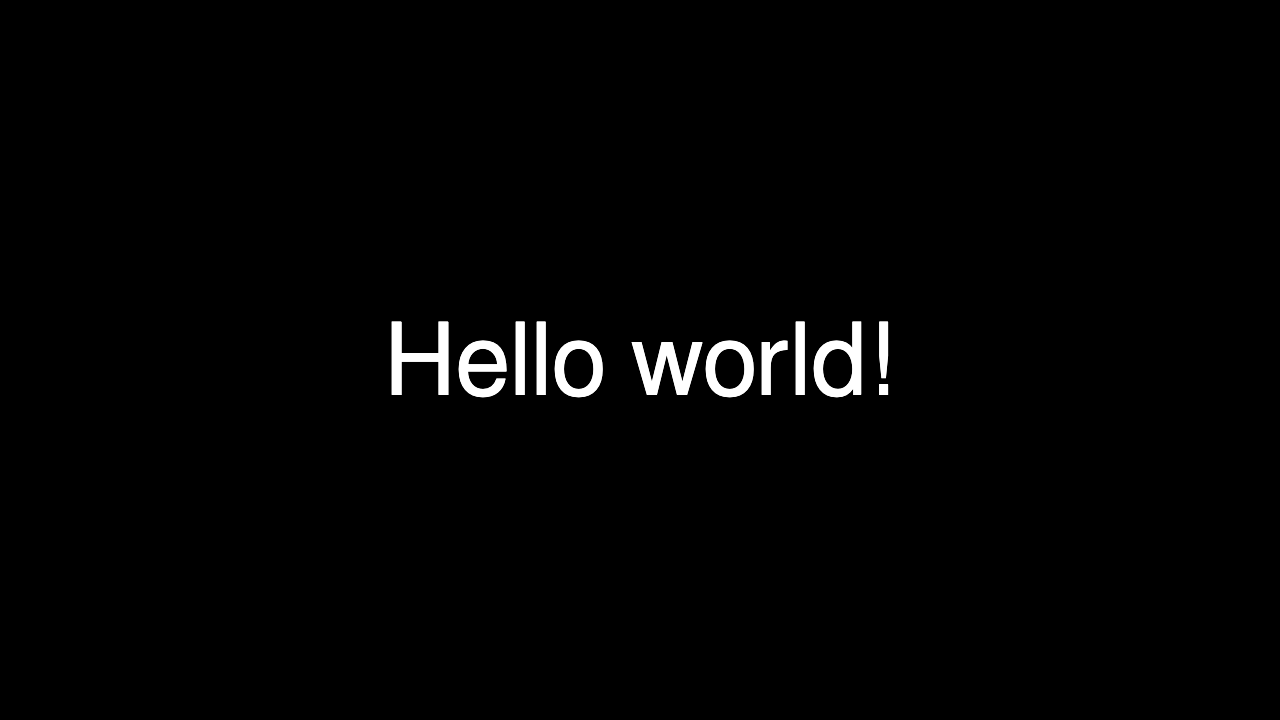
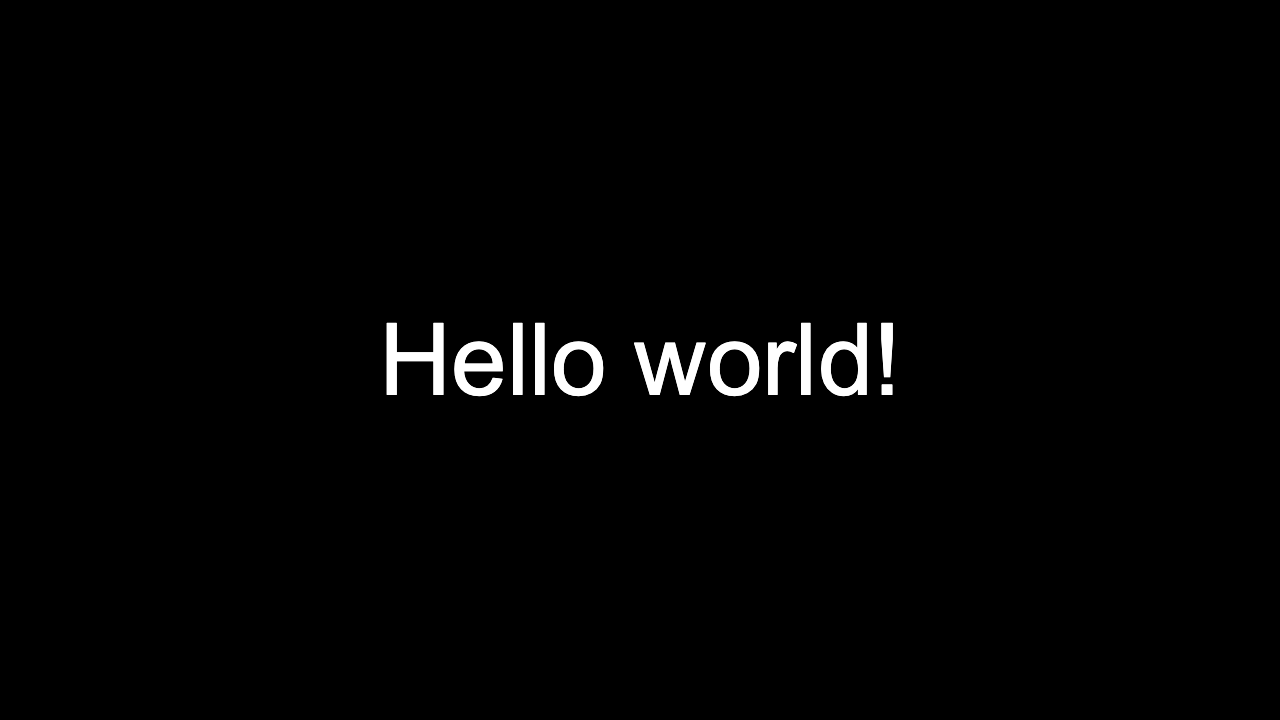
Switch to Arial font for tutorial images
Hopefully this can be installed successfully under Ubuntu for running 
tests...

Changed region(s): [[0.5, 0.4278, 0.7188, 0.55], [0.2812, 0.4583, 0.4375, 0.55]]

diff --git a/docs/controllers.md b/docs/controllers.md
@@ -6,39 +6,129 @@ This is currently just a placeholder to capture the full horror of everything I
 have to document for `!controller`.
 :::
 
+**Flitter** supports interacting with running programs through the use of MIDI
+control surfaces. Currently, the list of supported devices is just the Ableton
+Push2 and the Behringer X-Touch mini, because those are the two devices that
+the author owns.
+
 ## Controller Configuration
 
-`driver=`
+Controllers are configured by specifying an interface through a set of abstract
+controls, and then linking the output of these controls into the [state
+mapping](language.md#state) where the values can be accessed by the running
+program. The configuration of the control interface can be dynamically
+adjusted as the program runs.
+
+The top-level node for controllers is `!controller`. This takes the single
+attribute:
+
+`driver=` *DRIVER*
+: The controller driver to use. Currently one of `:push2` or `:xtouch_mini`.
+
+The drivers are designed to be resilient to the control device being missing or
+disconnecting and reconnecting while **Flitter** is running.
+
+Inside the `!controller` node, there should be a set of individual nodes that
+configure each available control.
 
 ### Common control attributes
 
-`id=`
+There are a number of attributes that are common to all nodes.
 
-`state=`
+`id=` *ID*
+: A value that identifies the specific physical control (button, knob or
+otherwise) on the controller. These are defined by the driver and are [listed
+below](#supported-controllers).
 
-`label=`
+`state=` *PREFIX*
+: This provides a key/prefix to use in the state mapping for the outputs of this
+control. Generally the key *PREFIX* will be the primary output value of the
+control, but additional values may be available at keys such as
+*PREFIX*`;:beat`. The individual control types list these.
 
-`color=`
+`label=` *TEXT*
+: A label to use for this control. This is only expected to be useful on
+controllers that have some kind of display associated with particular controls.
 
-`action=`
+`color=` *COLOR*
+: A single brightness value, or a 3-vector of red, green and blue values. For
+controls that have an associated LED, this will specify the output of that LED.
+This may just be a `0`/`1`, on/off value if the LED does not support either
+brightness or color.
+
+`action=` *ACTION*
+: A symbol specifying an internal engine action to take when this control is
+activated. The valid actions will vary on whether the control is a button or a
+position control (such as a slider or rotary) and are [documented
+below](#actions).
+
+### Positional controls
+
+Positional controls are able to represent some value within a range. These
+include knobs, pressure pads and sliders. They support the following generic
+attributes:
+
+`lower=` *LOWER*
+: The lower value of the output range. Defaults to `0`.
+
+`upper=` *UPPER*
+: The upper value of the output range. Defaults to `1` and must be greater than
+`lower`.
+
+`origin=` *ORIGIN*
+: A value that specifies an "origin" value in the output range. This attribute
+only makes sense where the physical control has some kind of associated visual
+feedback that provides a bar graph style representation for the current value
+with a variable "zero" point. This defaults to `0` if `lower` is less than zero
+and `upper` is greater than zero, otherwise it will default to `lower`.
+
+`lag=` *LAG*
+: Specifies a coefficient to apply an exponential moving average to the
+control's output value. This is used to "smooth out" the actual value and is
+particularly useful for controls that step slightly, like encoders, or just to
+limit the effect of jerky movements on the program. The default is specific to
+the driver.
+
+The *processed* output value of a positional control is stored to the `state`
+key.
 
 ### Rotaries
 
-`lower=`
+Rotary controls are knobs, including potentiometers and encoders, that can be
+mapped to a value in a range. They are configured with the `!rotary` node, which
+accepts the [positional control attrbutes](#positional-controls) above as well
+as the following rotary-specific attributes:
 
-`upper=`
+`turns=` *TURNS*
+: The number of turns of an encoder that represents the full range of the
+output. Defaults to `1`.
 
-`origin=`
+`wrap=` ( `true` | `false` )
+: Specifies whether this value will wrap around between the `upper` and `lower`
+ends of the range. This only makes sense for encoders that do not have a
+physical limit. Defaults to `false`.
 
-`wrap=`
-
-`lag=`
-
-`initial=`
+`initial=` *INITIAL*
+: Specifies a value in the output range that this control will start at (or
+reset back to if resetting is supported). This only makes sense for encoders.
 
 `style=` [ `:volume` | `:pan` | `:continuous` ]
+: Specifies a behaviour for the control and a display style if the controller
+supports visual feedback. This indicates a preference for a volume style bar
+that fills as the knob is turned, a pan style that fills in either direction
+from the `origin` point, or a continuous style that indicates a position with a
+single mark (most useful with encoders and `wrap=true`). This defaults to
+`:volume` unless `origin` is greater than `lower`, in which case it defaults to
+`:pan`.
+
+Setting `style=:continuous` and `wrap=false` on an encoder control will allow
+the output value to range beyond `lower` and `upper`. The `lower` and `upper`
+values will be used for display purposes, but turning the knob "beyond" these
+points will cause the output value to continue to increase or decrease.
 
 ### Buttons
+
+A button represents
 
 `toggle=`
 
@@ -47,6 +137,10 @@ have to document for `!controller`.
 `initial=`
 
 ### Pads
+
+`lower=`
+
+`upper=`
 
 `threshold=`
 
@@ -61,6 +155,12 @@ have to document for `!controller`.
 `lag=`
 
 `initial=`
+
+### Touch-sensitive controls
+
+
+
+## Actions
 
 ## Supported Controllers
 

diff --git a/docs/install.md b/docs/install.md
@@ -44,9 +44,20 @@ $ python3 -m venv ~/.virtualenvs/flitter
 $ ~/.virtualenvs/flitter/bin/pip3 install flitter-lang
 ```
 
-However, then ensuring that `~/.virtualenvs/flitter/bin` is in your `PATH` (or
-creating an alias for `~/.virtualenvs/flitter/bin/flitter`) is left as an
-exercise for the reader.
+Alternatively, do a *user* install with:
+
+```console
+$ pip3 install --user flitter-lang
+```
+
+Assuming your Python install is set up well for your operating system, this
+should just put the `flitter` script into your path for you. However, if this
+isn't working (on Windows, for example, you may need to have checked a box
+during install) then you can also run **Flitter** as a Python package with:
+
+```console
+$ pip3 install --user flitter-lang
+```
 
 ### Installing from the source package
 
@@ -138,10 +149,20 @@ During install, `pip` will also use:
 
 ## Running Flitter
 
-You can run **Flitter** with a command like:
+If you've installed **Flitter** in a virtual environment, then you'll need to
+ensure that the scripts/bin folder for that environment is in your system path.
+You can then run **Flitter** with a command like:
 
 ```console
 $ flitter path/to/some/flitter/script.fl
+```
+
+If you've done a local `pip` install instead then – with a little luck – the
+scripts folder is already in your path. Otherwise, you might want to try running
+**Flitter** as a Python package:
+
+```console
+$ python3 -m flitter.engine path/to/some/flitter/script.fl
 ```
 
 **Flitter** takes one or more program filenames as the main command-line
